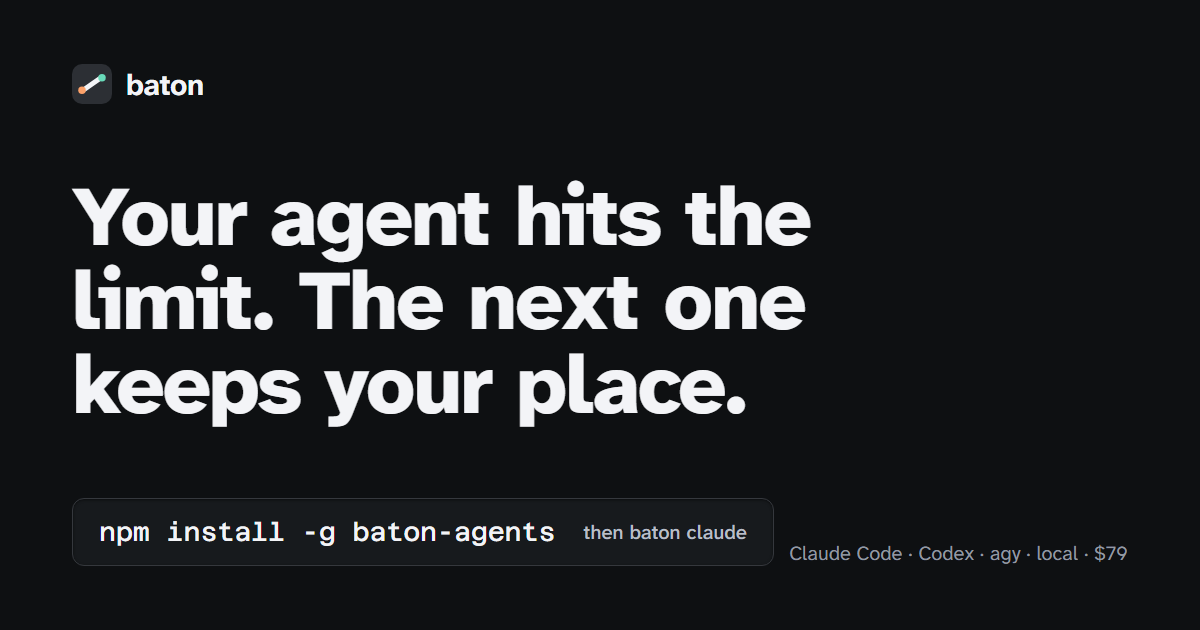
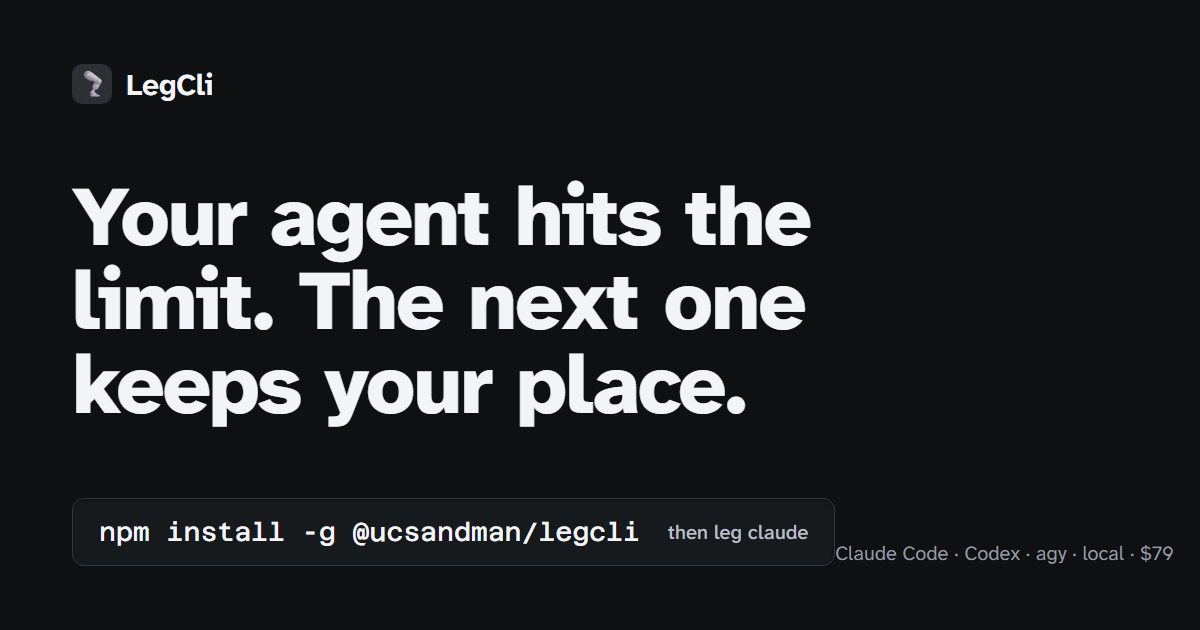
Antigravity: [UI] update branding to mechanical leg, refresh OG sharecard, and polish session drawer hierarchy

Changed region(s): [[0.2775, 0.8143, 0.9867, 0.9048], [0.0617, 0.1206, 0.185, 0.181]]

diff --git a/src/board/board.css b/src/board/board.css
@@ -189,10 +189,10 @@ code { font-family: var(--mono); font-size: 0.94em; }
 
 .banner { background: var(--e1); border-bottom: 1px solid var(--edge); color: var(--text-2); font-size: var(--t-0); padding: 10px clamp(20px, 4vw, 40px); padding-top: calc(10px + env(safe-area-inset-top, 0px)); }
 
-.masthead { display: flex; align-items: baseline; justify-content: space-between; gap: 16px; flex-wrap: wrap; padding-block: 28px 0; }
+.masthead { position: relative; z-index: 10; display: flex; align-items: center; justify-content: space-between; gap: 16px; flex-wrap: wrap; padding-block: 28px 24px; }
 .brand { font-size: var(--t-1); font-weight: var(--w-head); letter-spacing: -.01em; }
 .brand-glyph { display: inline-block; margin-right: 4px; }
-.masthead-right { display: flex; align-items: baseline; gap: 18px; flex-wrap: wrap; font-size: var(--t-0); color: var(--text-3); }
+.masthead-right { display: flex; align-items: center; gap: 18px; flex-wrap: wrap; font-size: var(--t-0); color: var(--text-3); }
 .floor-link { color: var(--text-2); text-decoration: none; border-bottom: 1px solid var(--line-strong); padding-bottom: 1px; }
 .floor-link:hover { color: var(--text); border-bottom-color: var(--text-2); }
 
@@ -357,14 +357,17 @@ code { font-family: var(--mono); font-size: 0.94em; }
 /* the four scroll boxes board-drawer.test.mjs scans for by line prefix. Each
    class is the first token on its line, in this order, and no earlier line in
    this file begins with any of the four */
-.drawer-task { max-height: 22rem; overflow: auto; font-size: var(--t-0); color: var(--text-2); }
-.drawer-msg p { max-height: 18rem; overflow-y: auto; font-size: var(--t-0); color: var(--text-2); }
-.drawer-timeline { max-height: 22rem; overflow: auto; font-size: var(--t-0); }
-.drawer-diff { max-height: 26rem; overflow: auto; font-family: var(--mono); font-size: var(--t--1); }
+.drawer-task { max-height: 22rem; overflow: auto; font-size: var(--t-0); color: var(--text); background: var(--e0); border: 1px solid var(--edge); border-radius: var(--r-control); padding: 14px 18px; line-height: 1.55; }
+.drawer-msg p { max-height: 18rem; overflow-y: auto; font-size: var(--t-0); color: var(--text); line-height: 1.55; margin: 0; }
+.drawer-timeline { max-height: 22rem; overflow: auto; font-size: var(--t-0); background: var(--e0); border: 1px solid var(--edge); border-radius: var(--r-control); padding: 8px 16px; }
+.drawer-diff { max-height: 26rem; overflow: auto; font-family: var(--mono); font-size: var(--t--1); background: var(--e0); border-top: 1px solid var(--line); margin-top: 10px; padding-top: 10px; }
 
-.drawer-msg { margin-top: 14px; }
-.drawer-msg-role { font-size: var(--t--1); color: var(--text-3); font-weight: var(--w-head); }
-.drawer-msg-when { font-size: var(--t--1); color: var(--text-3); }
+.drawer-msg { margin-top: 12px; background: var(--e0); border: 1px solid var(--edge); border-radius: var(--r-control); padding: 14px 18px; }
+.drawer-msg.is-human { border-left: 3px solid var(--accent); }
+.drawer-msg.is-agent { border-left: 3px solid var(--ok-text); }
+.drawer-msg-head { display: flex; align-items: center; justify-content: space-between; gap: 8px; margin-bottom: 8px; }
+.drawer-msg-role { font-size: var(--t--1); color: var(--text-2); font-weight: var(--w-head); text-transform: uppercase; letter-spacing: 0.04em; }
+.drawer-msg-when { font-size: var(--t--1); color: var(--text-3); font-family: var(--mono); }
 
 /* ---- ledger: on the ground, unpanelled --------------------------------- */
 .ledger { margin-top: 56px; display: grid; grid-template-columns: repeat(3, minmax(0, 1fr)); gap: 40px; padding-top: 32px; border-top: 1px solid var(--edge); }
@@ -430,20 +433,32 @@ code { font-family: var(--mono); font-size: 0.94em; }
 .worktree { color: var(--text-3); }
 
 /* ---- detail panes ------------------------------------------------------- */
-.detail { margin-top: 22px; background: var(--e1); border-radius: var(--r-well); box-shadow: var(--sink); }
+.detail { margin-top: 22px; background: var(--e1); border-radius: var(--r-well); box-shadow: var(--sink); border: 1px solid var(--edge); }
 .detail-inner { padding: 24px; }
-.detail-heading { display: flex; align-items: baseline; flex-wrap: wrap; gap: 8px; font-size: var(--t-1); font-weight: var(--w-head); margin-bottom: 12px; }
-.detail-section { margin-top: 20px; }
-.detail-sub { font-size: var(--t-0); color: var(--text-3); margin-bottom: 8px; }
+.detail-masthead { display: flex; align-items: center; justify-content: space-between; gap: 16px; flex-wrap: wrap; padding-bottom: 18px; border-bottom: 1px solid var(--line); margin-bottom: 22px; }
+.detail-brand { display: flex; align-items: center; gap: 10px; font-size: var(--t-1); }
+.detail-ctrls { display: flex; align-items: center; gap: 10px; }
+.detail-heading { display: flex; align-items: baseline; justify-content: space-between; flex-wrap: wrap; gap: 12px; font-size: var(--t-1); font-weight: var(--w-head); margin-bottom: 14px; letter-spacing: -.01em; }
+.detail-section { margin-top: 26px; padding-top: 22px; border-top: 1px solid var(--line); }
+.detail-section:first-of-type { margin-top: 0; padding-top: 0; border-top: 0; }
+.detail-sub { font-size: var(--t-0); color: var(--text-3); font-weight: var(--w-text); }
 .kv { display: grid; grid-template-columns: 148px 1fr; gap: 10px 20px; font-size: var(--t-0); }
 .kv-key { color: var(--text-3); }
 .kv-val { color: var(--text); }
-.well { background: var(--e0); border-radius: var(--r-control); padding: 14px; }
+.detail .kv { margin-top: 14px; padding-top: 12px; border-top: 1px solid var(--line); }
+.well { background: var(--e0); border-radius: var(--r-control); padding: 14px 18px; border: 1px solid var(--edge); }
 .log-pre { font-family: var(--mono); font-size: var(--t--1); white-space: pre-wrap; color: var(--text-2); max-height: 26rem; overflow: auto; }
 .hunk { font-family: var(--mono); font-size: var(--t--1); white-space: pre-wrap; }
-.file-row { display: inline-flex; align-items: baseline; flex-wrap: wrap; gap: 8px; text-align: left; }
+.drawer-file-item { background: var(--e0); border: 1px solid var(--edge); border-radius: var(--r-control); padding: 10px 14px; margin-bottom: 8px; }
+.drawer-file-item:hover { border-color: var(--line-strong); }
+.file-row { display: flex; align-items: center; justify-content: space-between; width: 100%; gap: 10px; text-align: left; }
 .turn { padding: 12px 0; }
 .turn + .turn { border-top: 1px solid var(--line); }
+.timeline-item { padding: 10px 0; display: grid; grid-template-columns: 80px 140px 1fr; gap: 12px; align-items: baseline; }
+.timeline-item + .timeline-item { border-top: 1px solid var(--line); }
+.timeline-item .turn-when { color: var(--text-3); font-size: var(--t--1); }
+.timeline-item .turn-role { color: var(--accent); font-size: var(--t--1); font-weight: var(--w-head); }
+.timeline-summary { color: var(--text-2); margin: 0; font-size: var(--t-0); }
 .turn-role { font-size: var(--t--1); color: var(--text-3); font-weight: var(--w-head); }
 .turn-when { font-size: var(--t--1); color: var(--text-3); }
 /* the kind word sits beside the clock, not welded to it: `10:40 AMstarted` */
@@ -460,9 +475,10 @@ code { font-family: var(--mono); font-size: 0.94em; }
 .actions { display: flex; gap: 10px; flex-wrap: wrap; }
 
 /* ---- the floor: the scheduler's view, tables on the same ground --------- */
-.masthead-left { display: flex; align-items: baseline; gap: 18px; flex-wrap: wrap; }
+.masthead-left { display: flex; align-items: center; gap: 18px; flex-wrap: wrap; }
 .repos-status, .counts-status { color: var(--text-3); }
 .counts-status span { color: var(--text-2); font-weight: var(--w-head); margin-left: 2px; }
+#floor-accounts { margin-top: 16px; }
 .region-floor { margin-top: 12px; }
 .ftable { width: 100%; border-collapse: collapse; background: var(--e2); border: 1px solid var(--edge); border-radius: var(--r-panel); box-shadow: var(--lift); overflow: hidden; font-size: var(--t-0); }
 .ftable th, .ftable td { text-align: left; vertical-align: top; padding: 14px 18px; }

diff --git a/src/board/sessions.js b/src/board/sessions.js
@@ -1078,9 +1078,12 @@
   }
 
   function messageRow(m, key) {
-    return el('div', { class: 'turn drawer-msg' }, [
-      el('span', { class: 'turn-role drawer-msg-role' }, [m.role === 'user' ? 'human' : 'agent']),
-      m.ts ? el('span', { class: 'turn-when drawer-msg-when' }, [whenAgo(m.ts)]) : null,
+    const isUser = m.role === 'user'
+    return el('div', { class: `turn drawer-msg ${isUser ? 'is-human' : 'is-agent'}` }, [
+      el('div', { class: 'drawer-msg-head' }, [
+        el('span', { class: `turn-role drawer-msg-role ${isUser ? '' : 'chip-state-ok'}` }, [isUser ? 'human' : 'agent']),
+        m.ts ? el('span', { class: 'turn-when drawer-msg-when' }, [whenAgo(m.ts)]) : null,
+      ]),
       // every box that can scroll carries a key, so where the reader had
       // scrolled to survives the rebuild three seconds later
       el('p', { 'data-scroll-key': `msg:${key}` }, [m.text]),
@@ -1088,7 +1091,7 @@
   }
 
   function fileRow(f) {
-    const wrap = el('div', {})
+    const wrap = el('div', { class: 'drawer-file-item' })
     const pre = el('pre', { class: 'drawer-diff', hidden: '', 'data-scroll-key': `diff:${f.path}` })
     const row = el('button', { type: 'button', class: 'btn btn-text file-row', 'aria-expanded': 'false', 'data-focus-key': `file:${f.path}` }, [
       el('span', { class: 'mono', title: f.path }, [f.path]),
@@ -1179,16 +1182,18 @@
       return
     }
     const [label] = STATUS[s.status] || [s.status]
-    const controls = el('div', { class: 'cap-line' }, [
+    const left = el('div', { class: 'detail-brand' }, [
+      el('span', { class: `dot id-${idOf(s.agent)}` }),
       el('span', { class: `acct-name chip-id-${idOf(s.agent)}` }, [s.agent]),
-      el('span', { class: 'chip' }, [tail(s.session_id)]),
+      el('span', { class: 'chip mono' }, [tail(s.session_id)]),
+      el('span', { class: s.active ? 'chip chip-state-ok' : 'chip is-stale' }, [s.active ? (label || 'running') : (label || s.status)]),
     ])
     const pause = el('button', { type: 'button', class: 'btn btn-secondary', id: 'session-drawer-pause', 'data-focus-key': 'drawer-pause' }, [drawer.paused ? 'Resume updates' : 'Pause updates'])
     pause.addEventListener('click', () => { drawer.paused = !drawer.paused; if (!drawer.paused) loadDrawer(); else renderDrawer() })
     const close = el('button', { type: 'button', class: 'btn btn-secondary', id: 'session-drawer-close', 'data-focus-key': 'drawer-close' }, ['Close'])
     close.addEventListener('click', closeSessionDrawer)
-    controls.append(pause, close)
-    box.appendChild(controls)
+    const header = el('div', { class: 'detail-masthead' }, [left, el('div', { class: 'detail-ctrls' }, [pause, close])])
+    box.appendChild(header)
     if (drawer.error) box.appendChild(el('p', { class: 'sentence tone-danger' }, [drawer.error]))
 
     const last = d && d.messages ? [...d.messages].reverse().find((m) => m.role === 'assistant') : null
@@ -1235,10 +1240,10 @@
       // header on the same panel printing the same instant as 11:04 PM. The
       // summary is a block, as board.js:754 builds the same row, or the kind
       // word and the sentence render glued: `lostrunner pid 999002 is gone`.
-      timeline.appendChild(el('div', { class: 'turn' }, [
+      timeline.appendChild(el('div', { class: 'turn timeline-item' }, [
         el('span', { class: 'mono turn-when' }, [clockAt(Date.parse(e.ts))]),
         el('span', { class: 'turn-role' }, [e.type]),
-        el('p', {}, [e.summary || '']),
+        el('p', { class: 'timeline-summary' }, [e.summary || '']),
       ]))
     }
     if (!events.length) timeline.appendChild(el('p', { class: 'sentence tone-muted' }, [d ? 'nothing recorded yet' : 'reading the timeline']))

diff --git a/site/index.html b/site/index.html
@@ -15,16 +15,17 @@
 <meta property="og:site_name" content="LegCli">
 <meta property="og:title" content="Your agent hits the limit. The next one keeps your place.">
 <meta property="og:description" content="leg claude, leg codex or leg agy: the same agent with a board beside it, usage tracking, and a handoff to the next agent in the same terminal when the limit hits.">
-<!-- the ?v travels with the art: link-preview caches key on this URL and most
-     never re-fetch one they already hold, so a stable og.png would keep serving
-     the old card forever. Bump it in the same commit that changes og.png. -->
-<meta property="og:image" content="https://legcli.com/og.png?v=2">
+<meta property="og:image" content="https://legcli.com/og.png?v=3">
+<meta property="og:image:secure_url" content="https://legcli.com/og.png?v=3">
+<meta property="og:image:type" content="image/png">
 <meta property="og:image:width" content="1200">
 <meta property="og:image:height" content="630">
+<meta property="og:image:alt" content="LegCli - Your agent hits the limit. The next one keeps your place.">
 <meta name="twitter:card" content="summary_large_image">
 <meta name="twitter:title" content="Your agent hits the limit. The next one keeps your place.">
 <meta name="twitter:description" content="leg claude, leg codex or leg agy: the same agent with a board beside it, usage tracking, and a handoff to the next agent in the same terminal when the limit hits.">
-<meta name="twitter:image" content="https://legcli.com/og.png?v=2">
+<meta name="twitter:image" content="https://legcli.com/og.png?v=3">
+<meta name="twitter:image:alt" content="LegCli - Your agent hits the limit. The next one keeps your place.">
 <link rel="preload" href="fonts/atkinson-hyperlegible-next-var.woff2" as="font" type="font/woff2" crossorigin>
 <link rel="preload" href="fonts/azeret-mono-var.woff2" as="font" type="font/woff2" crossorigin>
 <link rel="stylesheet" href="style.css">
@@ -55,7 +56,7 @@
 <header class="nav">
   <div class="wrap">
     <a class="brand" href="#top" aria-label="LegCli, home">
-      <svg viewBox="0 0 32 32" aria-hidden="true"><rect width="32" height="32" rx="8" fill="#2C2F34"/><rect x="7" y="14" width="18" height="4" rx="2" transform="rotate(-35 16 16)" fill="#F3F4F7"/><circle cx="8" cy="21" r="3" fill="#FCA169"/><circle cx="24" cy="11" r="3" fill="#69DBBA"/></svg>
+      <svg viewBox="0 0 32 32" aria-hidden="true"><rect width="32" height="32" rx="8" fill="#2C2F34"/><text x="16" y="23" font-size="21" text-anchor="middle">🦿</text></svg>
       LegCli
     </a>
     <nav class="nav-links" aria-label="Sections">

diff --git a/site/docs/real-run.html b/site/docs/real-run.html
@@ -12,12 +12,13 @@
 <meta property="og:url" content="https://legcli.com/docs/real-run">
 <meta property="og:site_name" content="LegCli">
 <meta property="og:title" content="A real run: Claude Code hits its usage limit, Codex continues">
-<meta property="og:description" content="One recorded session: Claude Code working, the limit landing, the bundle saved, and Codex picking the work up in the same terminal.">
-<meta property="og:image" content="https://legcli.com/og.png?v=2">
+<meta property="og:image" content="https://legcli.com/og.png?v=3">
+<meta property="og:image:secure_url" content="https://legcli.com/og.png?v=3">
+<meta property="og:image:type" content="image/png">
 <meta name="twitter:card" content="summary_large_image">
 <meta name="twitter:title" content="A real run: Claude Code hits its usage limit, Codex continues">
 <meta name="twitter:description" content="One recorded session: Claude Code working, the limit landing, the bundle saved, and Codex picking the work up in the same terminal.">
-<meta name="twitter:image" content="https://legcli.com/og.png?v=2">
+<meta name="twitter:image" content="https://legcli.com/og.png?v=3">
 <link rel="preload" href="/fonts/atkinson-hyperlegible-next-var.woff2" as="font" type="font/woff2" crossorigin>
 <link rel="preload" href="/fonts/azeret-mono-var.woff2" as="font" type="font/woff2" crossorigin>
 <link rel="stylesheet" href="/style.css">

diff --git a/site/docs/cli-contracts.html b/site/docs/cli-contracts.html
@@ -12,12 +12,13 @@
 <meta property="og:url" content="https://legcli.com/docs/cli-contracts">
 <meta property="og:site_name" content="LegCli">
 <meta property="og:title" content="What Leg reads from Claude Code, Codex and agy">
-<meta property="og:description" content="The exact usage endpoints, hooks, log lines and limit strings Baton reads from Claude Code, Codex and agy, each cited to its source.">
-<meta property="og:image" content="https://legcli.com/og.png?v=2">
+<meta property="og:image" content="https://legcli.com/og.png?v=3">
+<meta property="og:image:secure_url" content="https://legcli.com/og.png?v=3">
+<meta property="og:image:type" content="image/png">
 <meta name="twitter:card" content="summary_large_image">
 <meta name="twitter:title" content="What Leg reads from Claude Code, Codex and agy">
 <meta name="twitter:description" content="The exact usage endpoints, hooks, log lines and limit strings Baton reads from Claude Code, Codex and agy, each cited to its source.">
-<meta name="twitter:image" content="https://legcli.com/og.png?v=2">
+<meta name="twitter:image" content="https://legcli.com/og.png?v=3">
 <link rel="preload" href="/fonts/atkinson-hyperlegible-next-var.woff2" as="font" type="font/woff2" crossorigin>
 <link rel="preload" href="/fonts/azeret-mono-var.woff2" as="font" type="font/woff2" crossorigin>
 <link rel="stylesheet" href="/style.css">

diff --git a/site/docs/faq.html b/site/docs/faq.html
@@ -12,12 +12,13 @@
 <meta property="og:url" content="https://legcli.com/docs/faq">
 <meta property="og:site_name" content="LegCli">
 <meta property="og:title" content="Leg FAQ: what it edits, what it sends, how the license works">
-<meta property="og:description" content="What Leg edits and never edits, whether it sends anything anywhere, what happens to your license, and what it does not do.">
-<meta property="og:image" content="https://legcli.com/og.png?v=2">
+<meta property="og:image" content="https://legcli.com/og.png?v=3">
+<meta property="og:image:secure_url" content="https://legcli.com/og.png?v=3">
+<meta property="og:image:type" content="image/png">
 <meta name="twitter:card" content="summary_large_image">
 <meta name="twitter:title" content="Leg FAQ: what it edits, what it sends, how the license works">
 <meta name="twitter:description" content="What Leg edits and never edits, whether it sends anything anywhere, what happens to your license, and what it does not do.">
-<meta name="twitter:image" content="https://legcli.com/og.png?v=2">
+<meta name="twitter:image" content="https://legcli.com/og.png?v=3">
 <link rel="preload" href="/fonts/atkinson-hyperlegible-next-var.woff2" as="font" type="font/woff2" crossorigin>
 <link rel="preload" href="/fonts/azeret-mono-var.woff2" as="font" type="font/woff2" crossorigin>
 <link rel="stylesheet" href="/style.css">

diff --git a/site/docs/getting-started.html b/site/docs/getting-started.html
@@ -12,12 +12,13 @@
 <meta property="og:url" content="https://legcli.com/docs/getting-started">
 <meta property="og:site_name" content="LegCli">
 <meta property="og:title" content="Install Leg and monitor your Claude Code usage limit">
-<meta property="og:description" content="Install Leg, run your first agent under it, and see the board, the usage reading and the handoff. Node 22+, one npm command.">
-<meta property="og:image" content="https://legcli.com/og.png?v=2">
+<meta property="og:image" content="https://legcli.com/og.png?v=3">
+<meta property="og:image:secure_url" content="https://legcli.com/og.png?v=3">
+<meta property="og:image:type" content="image/png">
 <meta name="twitter:card" content="summary_large_image">
 <meta name="twitter:title" content="Install Leg and monitor your Claude Code usage limit">
 <meta name="twitter:description" content="Install Leg, run your first agent under it, and see the board, the usage reading and the handoff. Node 22+, one npm command.">
-<meta name="twitter:image" content="https://legcli.com/og.png?v=2">
+<meta name="twitter:image" content="https://legcli.com/og.png?v=3">
 <link rel="preload" href="/fonts/atkinson-hyperlegible-next-var.woff2" as="font" type="font/woff2" crossorigin>
 <link rel="preload" href="/fonts/azeret-mono-var.woff2" as="font" type="font/woff2" crossorigin>
 <link rel="stylesheet" href="/style.css">

diff --git a/site/docs/adapters.html b/site/docs/adapters.html
@@ -12,12 +12,13 @@
 <meta property="og:url" content="https://legcli.com/docs/adapters">
 <meta property="og:site_name" content="LegCli">
 <meta property="og:title" content="Leg agent adapters for Claude Code, Codex and agy">
-<meta property="og:description" content="How each agent adapter spawns its CLI, what it strips from the environment, and how to tell whether a tap is live or docs-only.">
-<meta property="og:image" content="https://legcli.com/og.png?v=2">
+<meta property="og:image" content="https://legcli.com/og.png?v=3">
+<meta property="og:image:secure_url" content="https://legcli.com/og.png?v=3">
+<meta property="og:image:type" content="image/png">
 <meta name="twitter:card" content="summary_large_image">
 <meta name="twitter:title" content="Leg agent adapters for Claude Code, Codex and agy">
 <meta name="twitter:description" content="How each agent adapter spawns its CLI, what it strips from the environment, and how to tell whether a tap is live or docs-only.">
-<meta name="twitter:image" content="https://legcli.com/og.png?v=2">
+<meta name="twitter:image" content="https://legcli.com/og.png?v=3">
 <link rel="preload" href="/fonts/atkinson-hyperlegible-next-var.woff2" as="font" type="font/woff2" crossorigin>
 <link rel="preload" href="/fonts/azeret-mono-var.woff2" as="font" type="font/woff2" crossorigin>
 <link rel="stylesheet" href="/style.css">

diff --git a/site/docs/concepts.html b/site/docs/concepts.html
@@ -12,12 +12,13 @@
 <meta property="og:url" content="https://legcli.com/docs/concepts">
 <meta property="og:site_name" content="LegCli">
 <meta property="og:title" content="How Leg works: sessions, bundles and the wall">
-<meta property="og:description" content="The pieces Leg is built from: a session, the usage reading, the handoff bundle, the wall, worktrees and landing work on trunk.">
-<meta property="og:image" content="https://legcli.com/og.png?v=2">
+<meta property="og:image" content="https://legcli.com/og.png?v=3">
+<meta property="og:image:secure_url" content="https://legcli.com/og.png?v=3">
+<meta property="og:image:type" content="image/png">
 <meta name="twitter:card" content="summary_large_image">
 <meta name="twitter:title" content="How Leg works: sessions, bundles and the wall">
 <meta name="twitter:description" content="The pieces Leg is built from: a session, the usage reading, the handoff bundle, the wall, worktrees and landing work on trunk.">
-<meta name="twitter:image" content="https://legcli.com/og.png?v=2">
+<meta name="twitter:image" content="https://legcli.com/og.png?v=3">
 <link rel="preload" href="/fonts/atkinson-hyperlegible-next-var.woff2" as="font" type="font/woff2" crossorigin>
 <link rel="preload" href="/fonts/azeret-mono-var.woff2" as="font" type="font/woff2" crossorigin>
 <link rel="stylesheet" href="/style.css">

diff --git a/site/docs/index.html b/site/docs/index.html
@@ -12,12 +12,13 @@
 <meta property="og:url" content="https://legcli.com/docs">
 <meta property="og:site_name" content="LegCli">
 <meta property="og:title" content="Leg docs: usage limits, the board and the handoff">
-<meta property="og:description" content="Every Leg document: install, the concepts, the board, configuration, the CLI contract, the agent adapters and the FAQ.">
-<meta property="og:image" content="https://legcli.com/og.png?v=2">
+<meta property="og:image" content="https://legcli.com/og.png?v=3">
+<meta property="og:image:secure_url" content="https://legcli.com/og.png?v=3">
+<meta property="og:image:type" content="image/png">
 <meta name="twitter:card" content="summary_large_image">
 <meta name="twitter:title" content="Leg docs: usage limits, the board and the handoff">
 <meta name="twitter:description" content="Every Leg document: install, the concepts, the board, configuration, the CLI contract, the agent adapters and the FAQ.">
-<meta name="twitter:image" content="https://legcli.com/og.png?v=2">
+<meta name="twitter:image" content="https://legcli.com/og.png?v=3">
 <link rel="preload" href="/fonts/atkinson-hyperlegible-next-var.woff2" as="font" type="font/woff2" crossorigin>
 <link rel="preload" href="/fonts/azeret-mono-var.woff2" as="font" type="font/woff2" crossorigin>
 <link rel="stylesheet" href="/style.css">

diff --git a/site/docs/configuration.html b/site/docs/configuration.html
@@ -12,12 +12,13 @@
 <meta property="og:url" content="https://legcli.com/docs/configuration">
 <meta property="og:site_name" content="LegCli">
 <meta property="og:title" content="Leg configuration and environment variables">
-<meta property="og:description" content="Every Leg environment variable, the config file, network exposure, the token seam and the folder-trust switch.">
-<meta property="og:image" content="https://legcli.com/og.png?v=2">
+<meta property="og:image" content="https://legcli.com/og.png?v=3">
+<meta property="og:image:secure_url" content="https://legcli.com/og.png?v=3">
+<meta property="og:image:type" content="image/png">
 <meta name="twitter:card" content="summary_large_image">
 <meta name="twitter:title" content="Leg configuration and environment variables">
 <meta name="twitter:description" content="Every Leg environment variable, the config file, network exposure, the token seam and the folder-trust switch.">
-<meta name="twitter:image" content="https://legcli.com/og.png?v=2">
+<meta name="twitter:image" content="https://legcli.com/og.png?v=3">
 <link rel="preload" href="/fonts/atkinson-hyperlegible-next-var.woff2" as="font" type="font/woff2" crossorigin>
 <link rel="preload" href="/fonts/azeret-mono-var.woff2" as="font" type="font/woff2" crossorigin>
 <link rel="stylesheet" href="/style.css">

diff --git a/site/docs/board-guide.html b/site/docs/board-guide.html
@@ -12,12 +12,13 @@
 <meta property="og:url" content="https://legcli.com/docs/board-guide">
 <meta property="og:site_name" content="LegCli">
 <meta property="og:title" content="The Leg board, panel by panel">
-<meta property="og:description" content="Every card, gauge, button and drawer on the Leg board, what each number means, and where the reading behind it came from.">
-<meta property="og:image" content="https://legcli.com/og.png?v=2">
+<meta property="og:image" content="https://legcli.com/og.png?v=3">
+<meta property="og:image:secure_url" content="https://legcli.com/og.png?v=3">
+<meta property="og:image:type" content="image/png">
 <meta name="twitter:card" content="summary_large_image">
 <meta name="twitter:title" content="The Leg board, panel by panel">
 <meta name="twitter:description" content="Every card, gauge, button and drawer on the Leg board, what each number means, and where the reading behind it came from.">
-<meta name="twitter:image" content="https://legcli.com/og.png?v=2">
+<meta name="twitter:image" content="https://legcli.com/og.png?v=3">
 <link rel="preload" href="/fonts/atkinson-hyperlegible-next-var.woff2" as="font" type="font/woff2" crossorigin>
 <link rel="preload" href="/fonts/azeret-mono-var.woff2" as="font" type="font/woff2" crossorigin>
 <link rel="stylesheet" href="/style.css">
